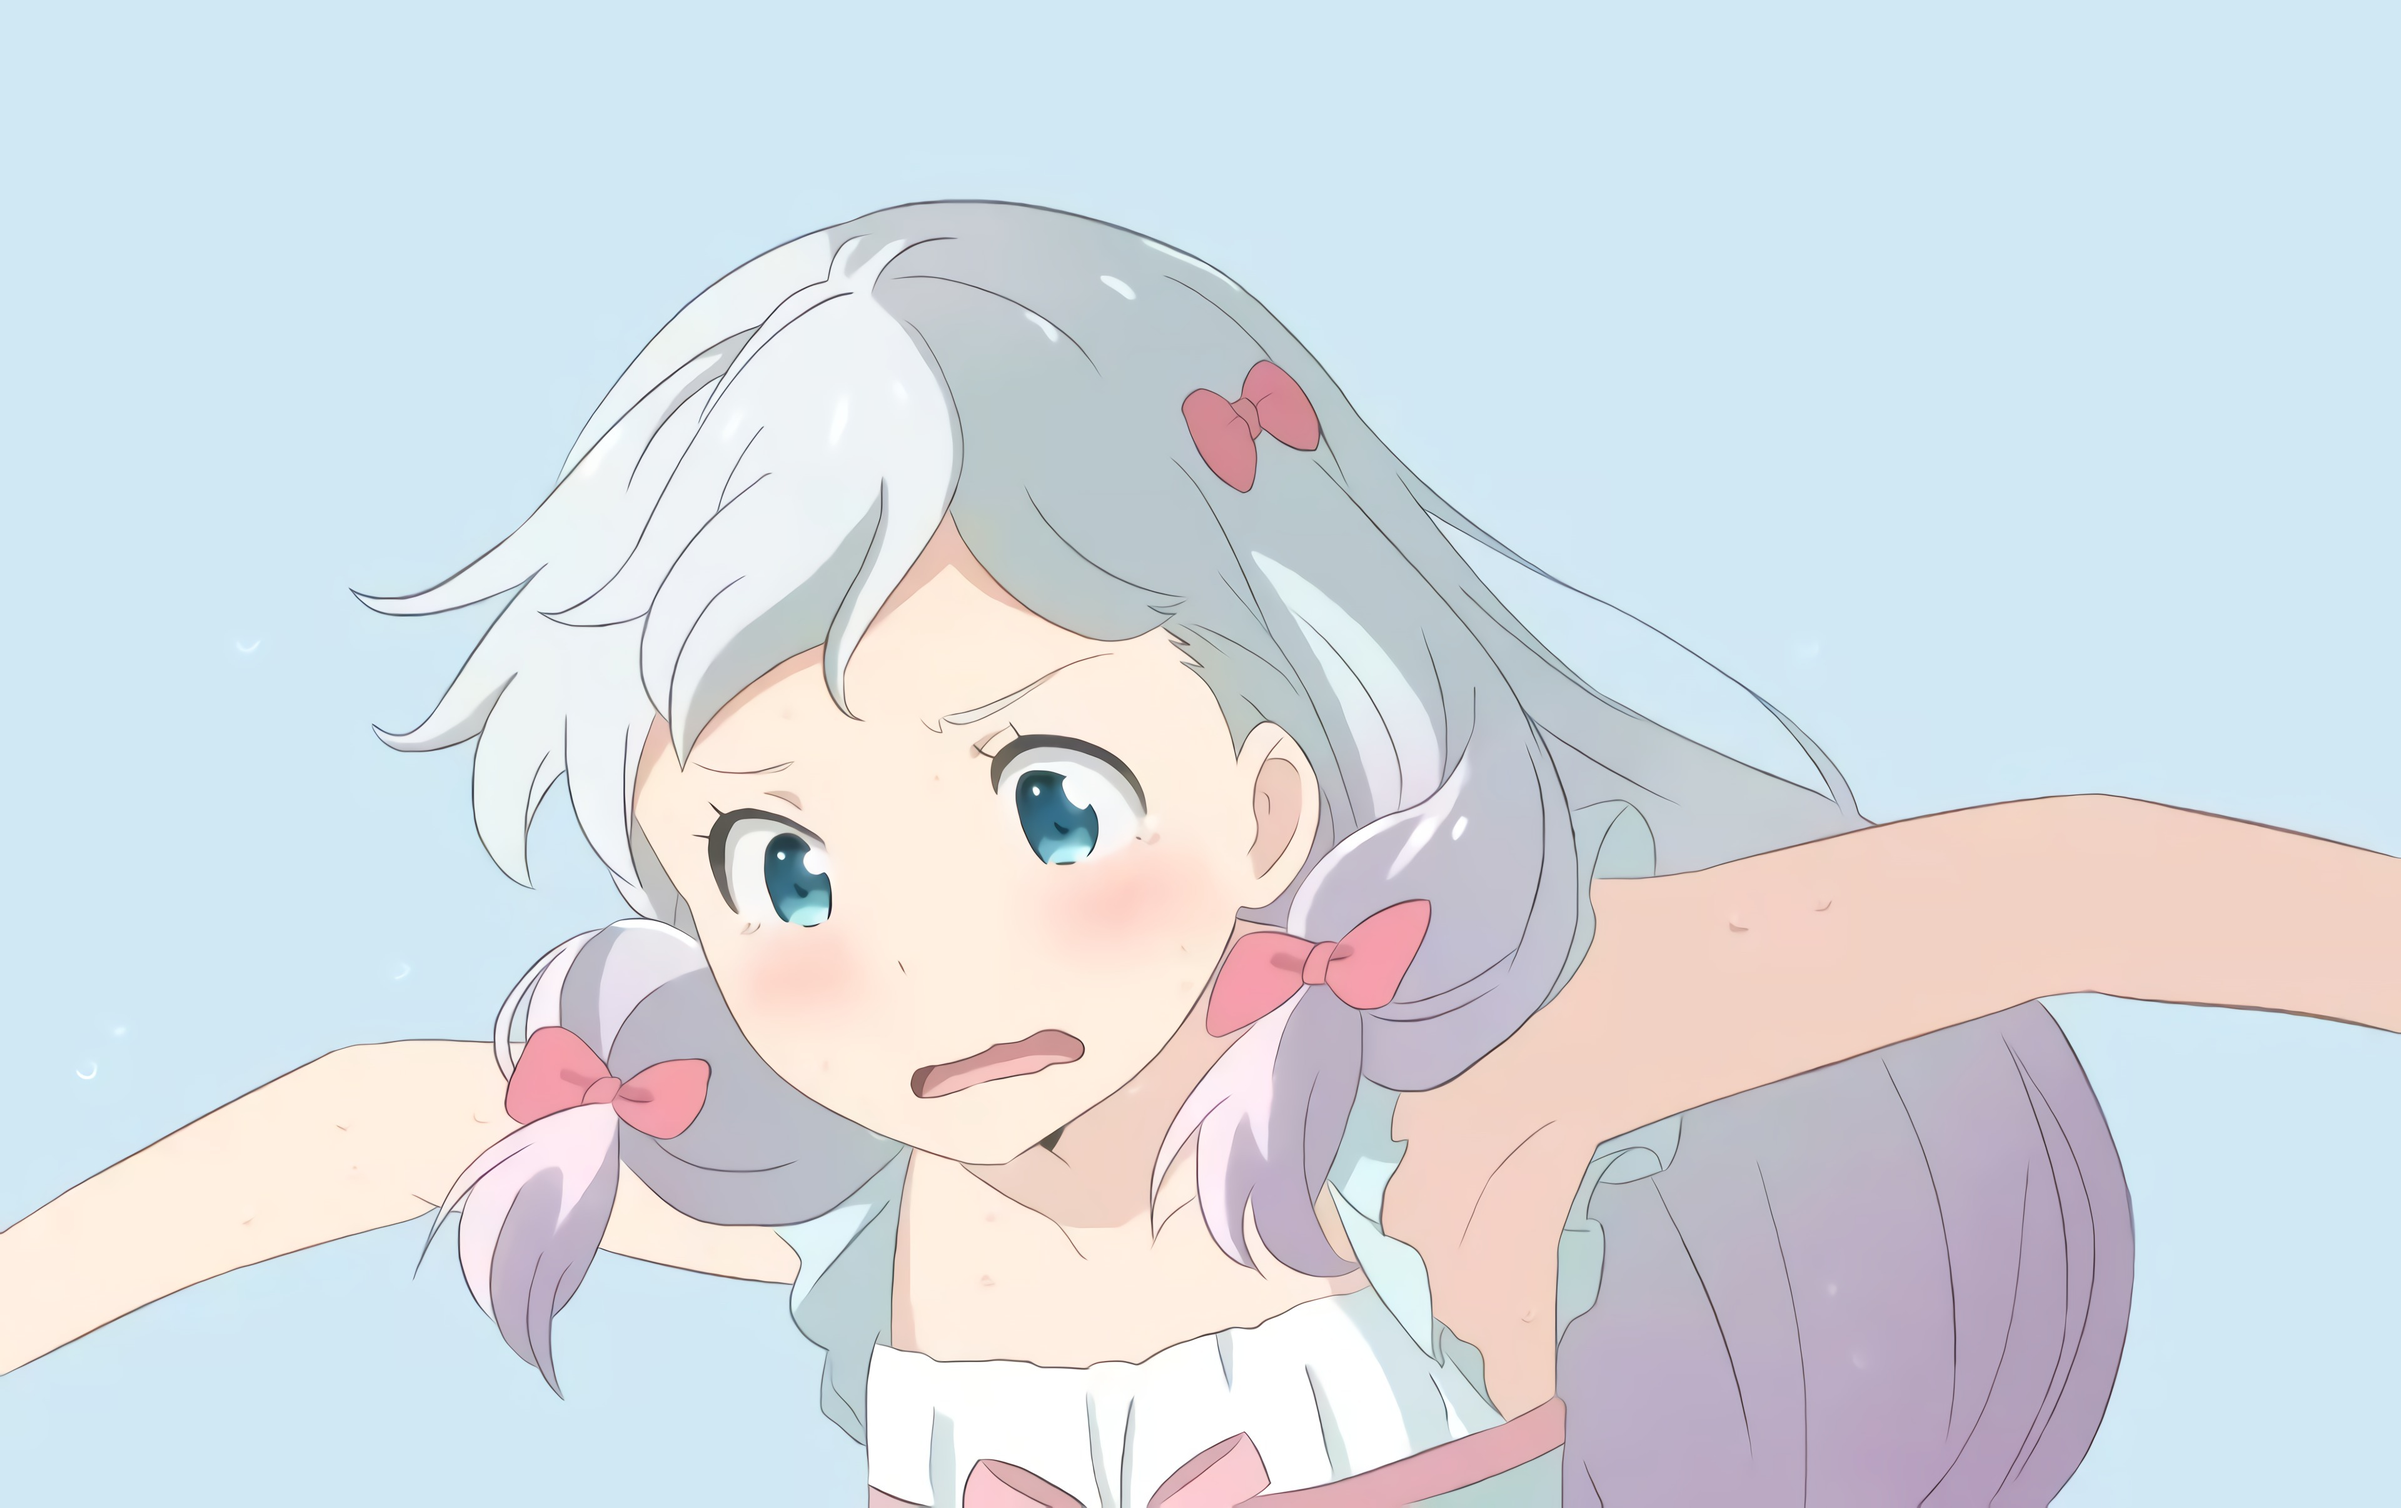
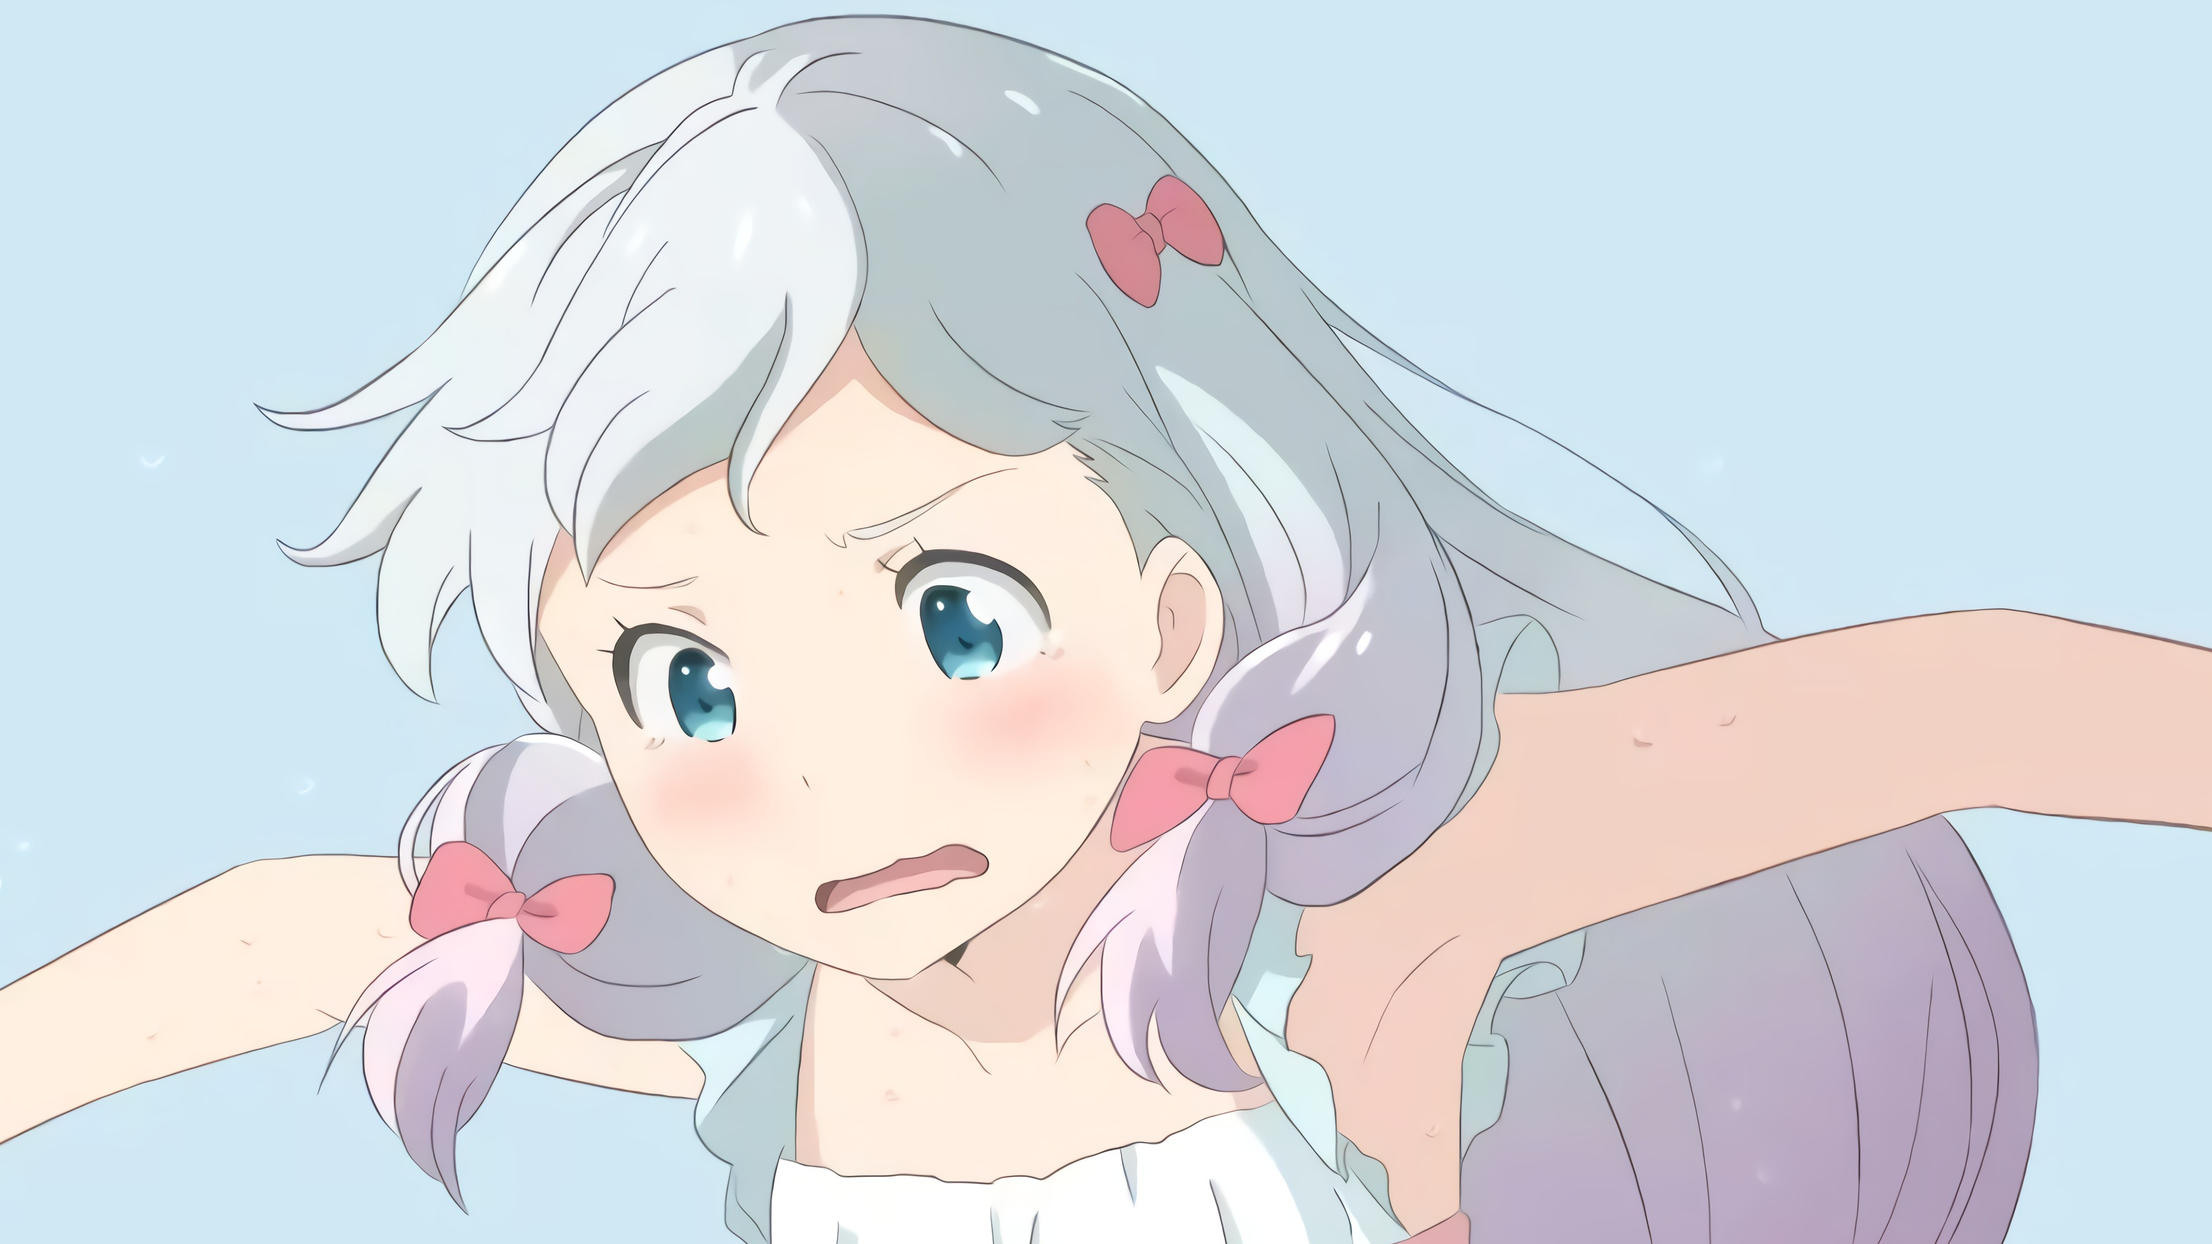
Never give up

Changed region(s): [[0.0, 0.0, 1.0, 1.0], [0.8084, 0.6231, 1.0, 1.0], [0.0, 0.8724, 0.0622, 0.9347]]

diff --git a/src/config.ts b/src/config.ts
@@ -15,13 +15,13 @@ export const siteConfig: SiteConfig = {
 		fixed: true, // Hide the theme color picker for visitors
 	},
 	banner: {
-		enable: false,
+		enable: true,
 		src: "assets/images/demo-banner.png", // Relative to the /src directory. Relative to the /public directory if it starts with '/'
-		position: "bottom", // Equivalent to object-position, only supports 'top', 'center', 'bottom'. 'center' by default
+		position: "center", // Equivalent to object-position, only supports 'top', 'center', 'bottom'. 'center' by default
 		credit: {
-			enable: false, // Display the credit text of the banner image
-			text: "", // Credit text to be displayed
-			url: "", // (Optional) URL link to the original artwork or artist's page
+			enable: true, // Display the credit text of the banner image
+			text: "So many things to hack , such little time to work.", // Credit text to be displayed
+			url: "https://www.bilibili.com/video/BV1GJ411x7h7/", // (Optional) URL link to the original artwork or artist's page
 		},
 	},
 	toc: {
